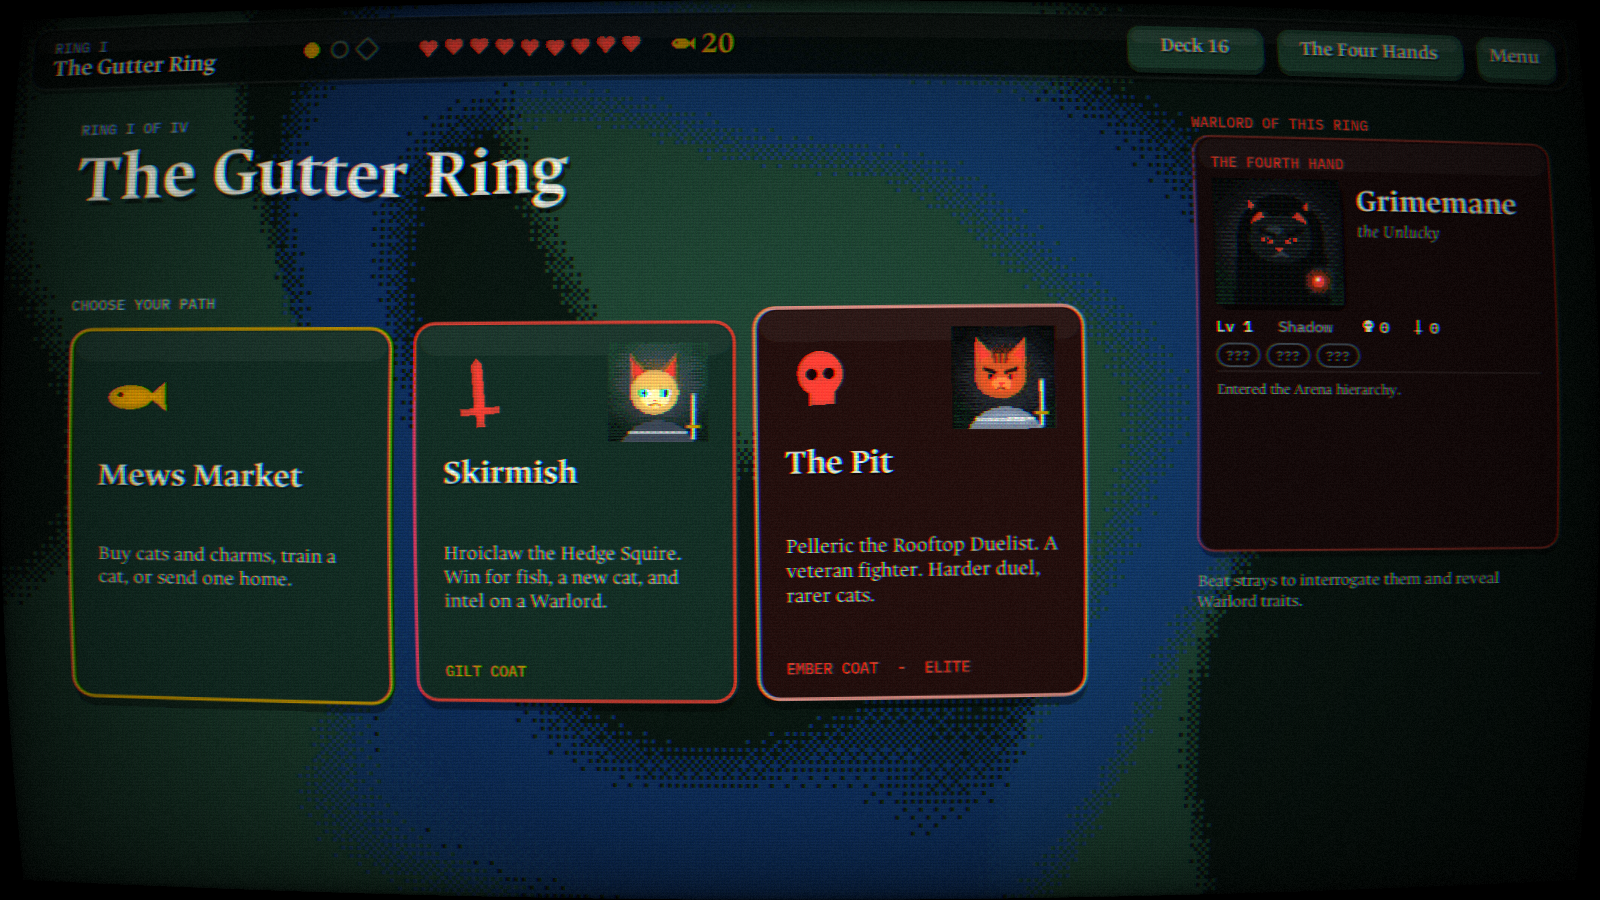
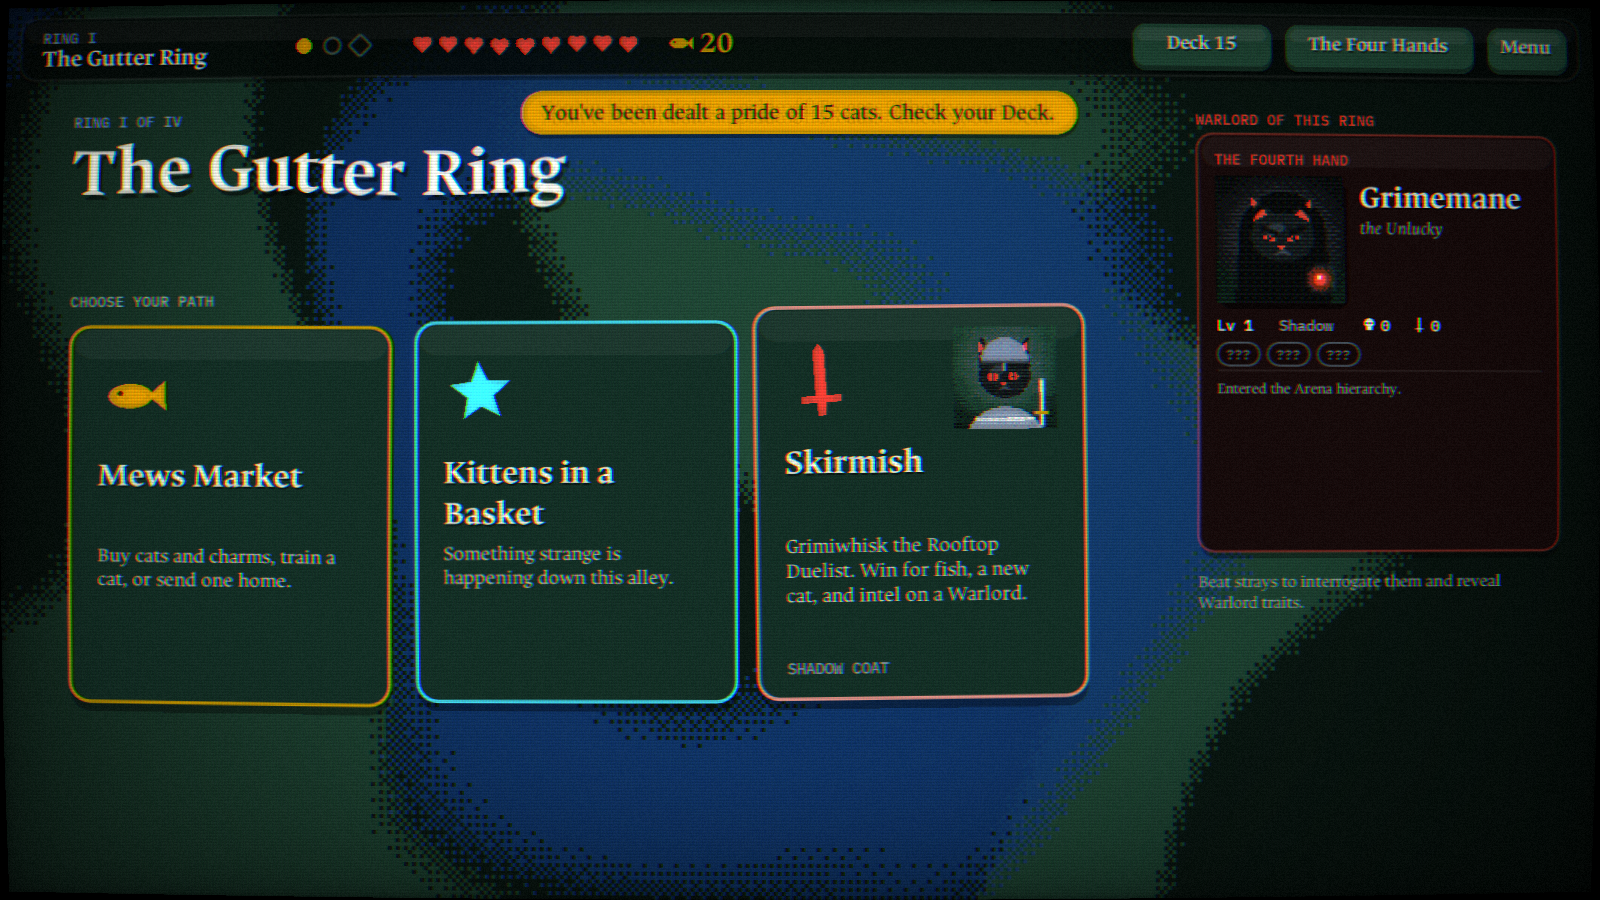
Deal a random starting deck and tone down the CRT curvature
- Runs start on the map with a random, balanced pride (4 basics + 10 cats,
  at least 4 per row, at most 2 specials and 1 Legendary); draft scene removed
- CRT barrel distortion reduced to a subtle curve, softer vignette;
  F2 now cycles subtle / flat / off and the setting persists

Claude-Session: https://claude.ai/code/session_01MroigiceJ8fFGwkUrdEkvY

diff --git a/README.md b/README.md
@@ -33,7 +33,7 @@ tools/build-love.sh
 | Key | Action |
 | --- | --- |
 | F11 / Alt+Enter | fullscreen |
-| F2 | CRT filter on/off |
+| F2 | CRT: subtle curve / flat / off |
 | F3 | sound on/off |
 | Esc | menu |
 | Space / P | pass (in a duel) |
